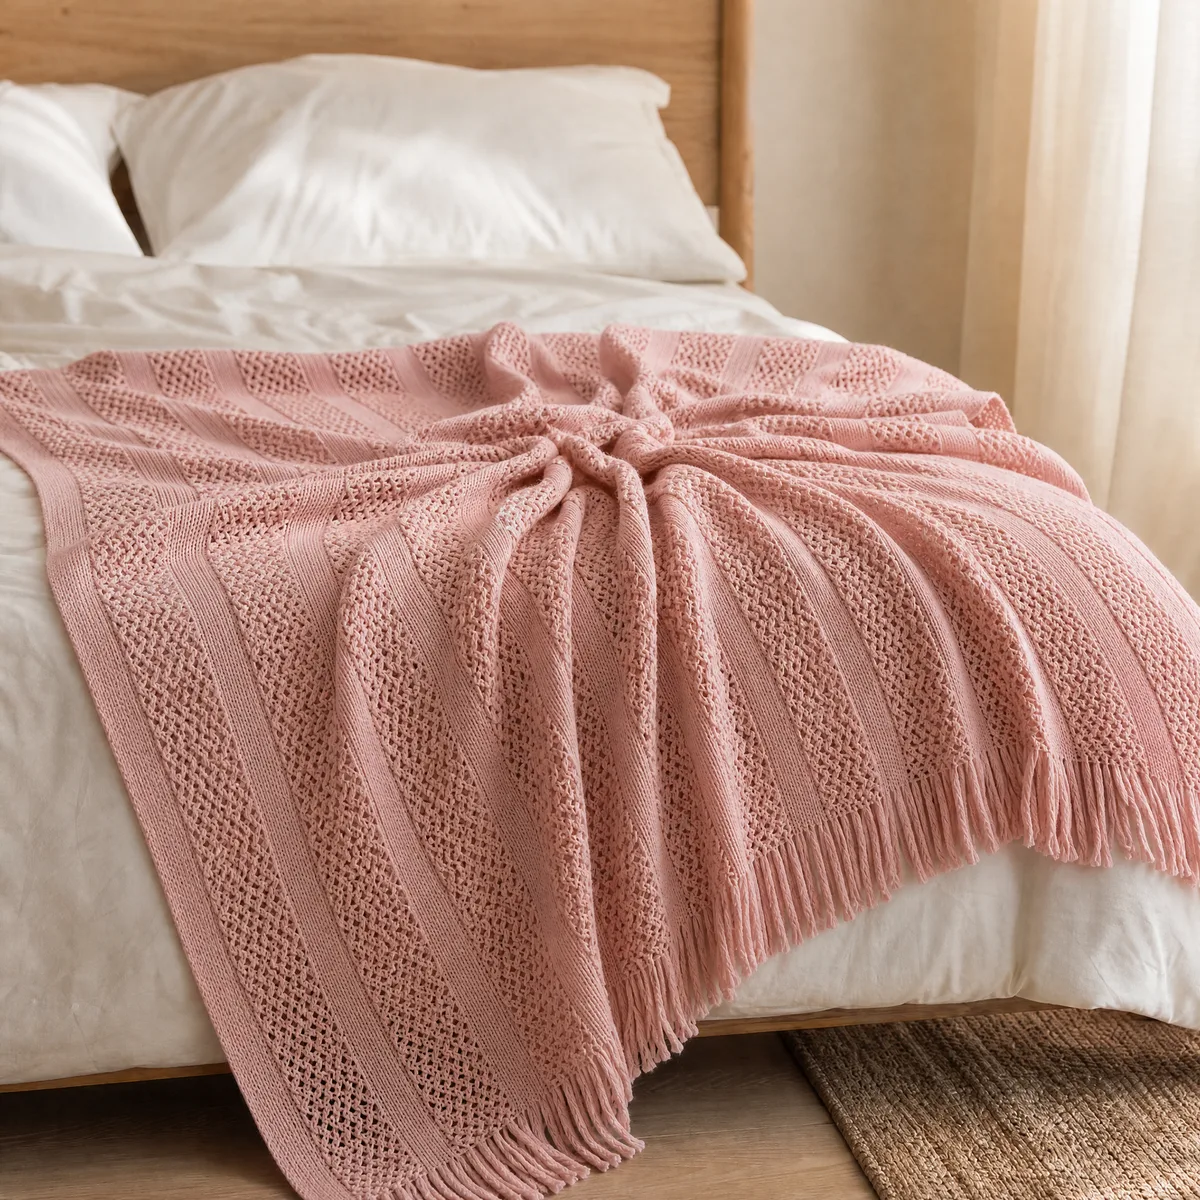
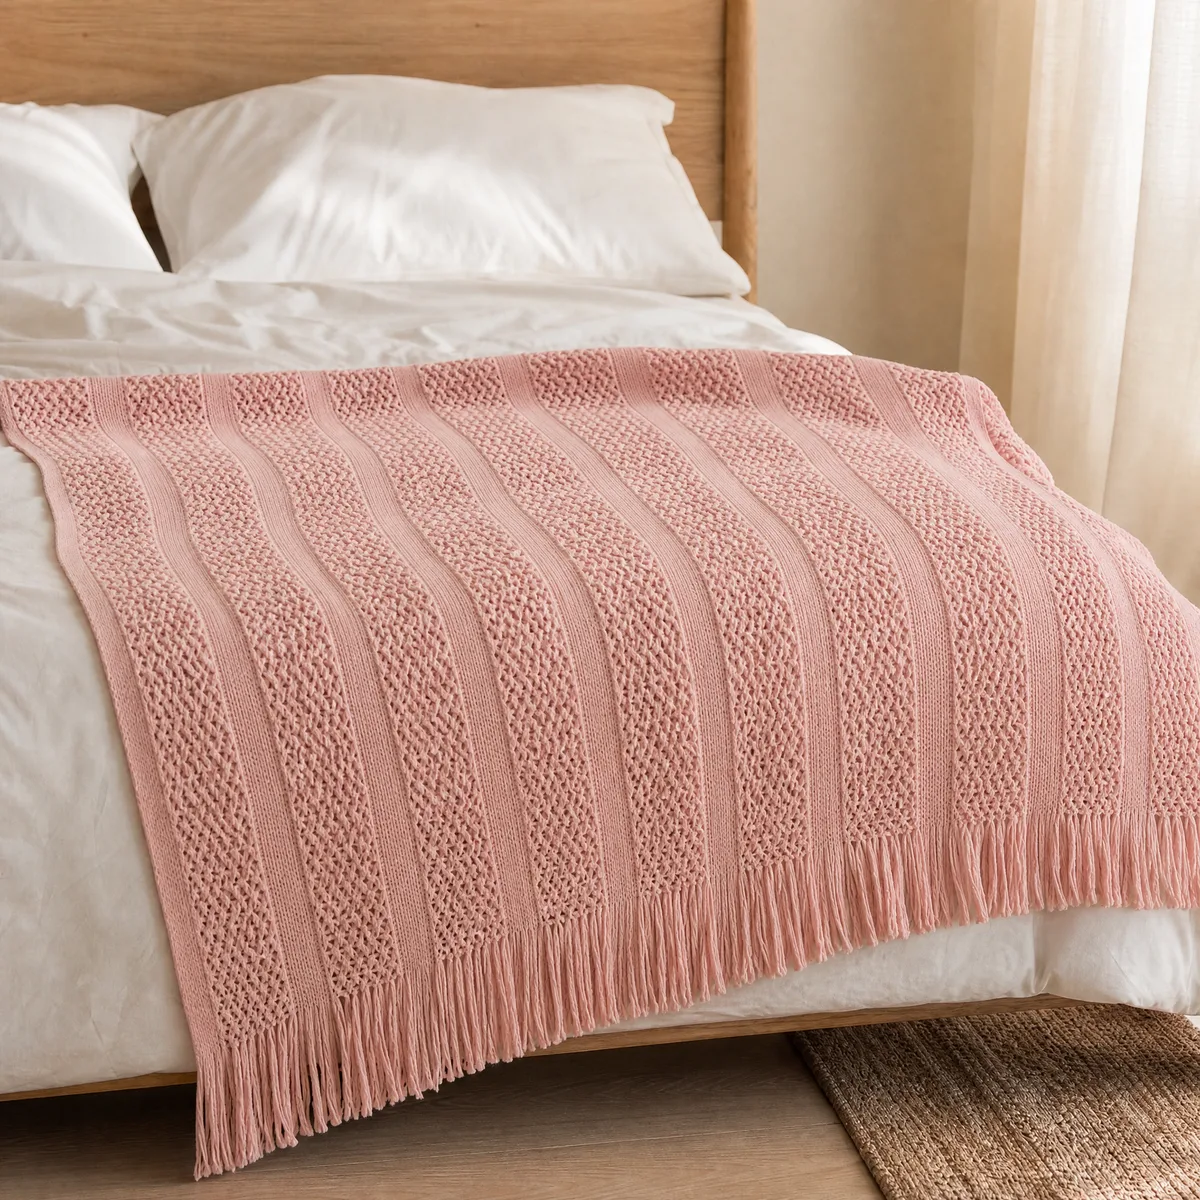
fix: 针织毯粉色主图重生成（平缓自然褶皱，替换聚拢失真版）

diff --git a/src/data/product-weights.ts b/src/data/product-weights.ts
@@ -1,6 +1,6 @@
 // Auto-generated by scripts/build-weights.js
 // DO NOT EDIT MANUALLY - 人工赋权改 src/data/weights-overrides.ts 后重跑本脚本
-// Generated at: 2026-10-18T21:01:23.414Z
+// Generated at: 2026-10-18T21:26:27.103Z
 
 export interface ProductWeight {
   /** 一级类目（同分破平用类目平均分） */
@@ -40,12 +40,12 @@ export const PRODUCT_WEIGHTS: Record<string, ProductWeight> = {
   "b0c3b13n8z": {"type":"Cushions","score":22.5,"perf":22.5,"boost":0},
   "b0c3b16l6r": {"type":"Cushions","score":22.5,"perf":22.5,"boost":0},
   "b0c3b265xj": {"type":"Cushions","score":22.5,"perf":22.5,"boost":0},
-  "b0c4b9t6jv": {"type":"Cushions","score":24,"perf":24,"boost":0},
-  "b0c4bbvs53": {"type":"Cushions","score":24,"perf":24,"boost":0},
-  "b0c4bc7q4s": {"type":"Cushions","score":24,"perf":24,"boost":0},
-  "b0c4bcd4dy": {"type":"Cushions","score":24,"perf":24,"boost":0},
-  "b0c4bd7q5x": {"type":"Cushions","score":24,"perf":24,"boost":0},
-  "b0c4bdllfk": {"type":"Cushions","score":24,"perf":24,"boost":0},
+  "b0c4b9t6jv": {"type":"Cushions","score":23.9,"perf":23.9,"boost":0},
+  "b0c4bbvs53": {"type":"Cushions","score":23.9,"perf":23.9,"boost":0},
+  "b0c4bc7q4s": {"type":"Cushions","score":23.9,"perf":23.9,"boost":0},
+  "b0c4bcd4dy": {"type":"Cushions","score":23.9,"perf":23.9,"boost":0},
+  "b0c4bd7q5x": {"type":"Cushions","score":23.9,"perf":23.9,"boost":0},
+  "b0c4bdllfk": {"type":"Cushions","score":23.9,"perf":23.9,"boost":0},
   "b0c6h5xzmz": {"type":"Cushions","score":22.5,"perf":22.5,"boost":0},
   "b0c8j237v3": {"type":"Pillows","score":22.7,"perf":22.7,"boost":0},
   "b0c8j292wf": {"type":"Pillows","score":22.7,"perf":22.7,"boost":0},
@@ -59,7 +59,7 @@ export const PRODUCT_WEIGHTS: Record<string, ProductWeight> = {
   "b0cc5y77dc": {"type":"Cushions","score":22.5,"perf":22.5,"boost":0},
   "b0cj8tjl56": {"type":"Cushions","score":19,"perf":19,"boost":0},
   "b0cjhslcz5": {"type":"Cushions","score":17.5,"perf":17.5,"boost":0},
-  "b0cjhx7xkl": {"type":"Cushions","score":24,"perf":24,"boost":0},
+  "b0cjhx7xkl": {"type":"Cushions","score":23.9,"perf":23.9,"boost":0},
   "b0cqbzm49v": {"type":"Pillows","score":23.2,"perf":23.2,"boost":0},
   "b0cqc5qjfj": {"type":"Pillows","score":23.2,"perf":23.2,"boost":0},
   "b0by8ly757": {"type":"Others","score":14.1,"perf":14.1,"boost":0},
@@ -73,7 +73,7 @@ export const PRODUCT_WEIGHTS: Record<string, ProductWeight> = {
   "b0f1y4j48t": {"type":"Cushions","score":19,"perf":19,"boost":0},
   "b0f1y91hpr": {"type":"Cushions","score":16.3,"perf":16.3,"boost":0},
   "b0f62xrb55": {"type":"Pillows","score":18.2,"perf":18.2,"boost":0},
-  "b0fnqrrv78": {"type":"Cushions","score":24,"perf":24,"boost":0},
+  "b0fnqrrv78": {"type":"Cushions","score":23.9,"perf":23.9,"boost":0},
   "b0g6m3f7cy": {"type":"Pillows","score":15,"perf":15,"boost":0},
   "b0g6mptvfd": {"type":"Pillows","score":53.2,"perf":23.2,"boost":30},
   "mk-pc-cord-caramel": {"type":"Pillows","score":17.8,"perf":17.8,"boost":0},
@@ -136,8 +136,8 @@ export const PRODUCT_WEIGHTS: Record<string, ProductWeight> = {
   "linen3-caramel-queen": {"type":"Bedding","score":9.7,"perf":9.7,"boost":0},
   "b0f62y3xt9": {"type":"Pillows","score":23.2,"perf":23.2,"boost":0},
   "b0f62zy8zn": {"type":"Pillows","score":23.2,"perf":23.2,"boost":0},
-  "b0gd81wt1b": {"type":"Cushions","score":22,"perf":22,"boost":0},
-  "b0gd84d8vc": {"type":"Cushions","score":24,"perf":24,"boost":0},
+  "b0gd81wt1b": {"type":"Cushions","score":21.9,"perf":21.9,"boost":0},
+  "b0gd84d8vc": {"type":"Cushions","score":23.9,"perf":23.9,"boost":0},
   "b0gjlpxb6f": {"type":"Cushions","score":23.3,"perf":23.3,"boost":0},
   "b0gjlrgvdj": {"type":"Cushions","score":21.9,"perf":21.9,"boost":0},
   "b0gjsttgy5": {"type":"Cushions","score":21.9,"perf":21.9,"boost":0},
@@ -288,12 +288,12 @@ export const PRODUCT_WEIGHTS: Record<string, ProductWeight> = {
   "linen3-sage-full": {"type":"Bedding","score":27.9,"perf":27.9,"boost":0},
   "linen3-sage-queen": {"type":"Bedding","score":57.2,"perf":27.2,"boost":30},
   "linen3-sage-king": {"type":"Bedding","score":27.8,"perf":27.8,"boost":0},
-  "linen3-charcoal-twin": {"type":"Bedding","score":28,"perf":28,"boost":0},
+  "linen3-charcoal-twin": {"type":"Bedding","score":27.9,"perf":27.9,"boost":0},
   "linen3-charcoal-full": {"type":"Bedding","score":27.9,"perf":27.9,"boost":0},
   "linen3-charcoal-queen": {"type":"Bedding","score":57,"perf":27,"boost":30},
   "linen3-charcoal-king": {"type":"Bedding","score":28.6,"perf":28.6,"boost":0},
   "linen3-dustyblue-twin": {"type":"Bedding","score":27.9,"perf":27.9,"boost":0},
-  "linen3-dustyblue-full": {"type":"Bedding","score":27.9,"perf":27.9,"boost":0},
+  "linen3-dustyblue-full": {"type":"Bedding","score":27.8,"perf":27.8,"boost":0},
   "linen3-dustyblue-queen": {"type":"Bedding","score":57.8,"perf":27.8,"boost":30},
   "linen3-dustyblue-king": {"type":"Bedding","score":27.2,"perf":27.2,"boost":0},
   "linen3-ivory-twin": {"type":"Bedding","score":27.2,"perf":27.2,"boost":0},
@@ -323,7 +323,7 @@ export const PRODUCT_WEIGHTS: Record<string, ProductWeight> = {
   "1688-743606980882-c61": {"type":"Dining","score":28.9,"perf":28.9,"boost":0},
   "1688-743606980882-c71": {"type":"Dining","score":27.4,"perf":27.4,"boost":0},
   "1688-743606980882-c80": {"type":"Dining","score":27.4,"perf":27.4,"boost":0},
-  "1688-743606980882-c89": {"type":"Dining","score":27.4,"perf":27.4,"boost":0},
+  "1688-743606980882-c89": {"type":"Dining","score":27.3,"perf":27.3,"boost":0},
   "1688-663341114084-c2": {"type":"Dining","score":28.7,"perf":28.7,"boost":0},
   "1688-663341114084-c3": {"type":"Dining","score":27.4,"perf":27.4,"boost":0},
   "1688-807393887857-c2": {"type":"Decor","score":28.9,"perf":28.9,"boost":0},
@@ -351,7 +351,7 @@ export const PRODUCT_WEIGHTS: Record<string, ProductWeight> = {
   "1688-1061371343572-c6": {"type":"Bedding","score":27.1,"perf":27.1,"boost":0},
   "1688-1061371343572-c7": {"type":"Bedding","score":27.1,"perf":27.1,"boost":0},
   "1688-1061371343572-c8": {"type":"Bedding","score":27.8,"perf":27.8,"boost":0},
-  "1688-1061371343572-c9": {"type":"Bedding","score":27.8,"perf":27.8,"boost":0},
+  "1688-1061371343572-c9": {"type":"Bedding","score":27.7,"perf":27.7,"boost":0},
   "1688-1061371343572-c10": {"type":"Bedding","score":26.9,"perf":26.9,"boost":0},
   "1688-1061371343572-c11": {"type":"Bedding","score":27.7,"perf":27.7,"boost":0},
   "1688-1061371343572-c12": {"type":"Bedding","score":27.8,"perf":27.8,"boost":0},
@@ -362,7 +362,7 @@ export const PRODUCT_WEIGHTS: Record<string, ProductWeight> = {
   "1688-1061371343572-c17": {"type":"Bedding","score":28.4,"perf":28.4,"boost":0},
   "1688-1061371343572-c18": {"type":"Bedding","score":28.6,"perf":28.6,"boost":0},
   "1688-1061371343572-c19": {"type":"Bedding","score":27.1,"perf":27.1,"boost":0},
-  "1688-1061371343572-c20": {"type":"Bedding","score":28.5,"perf":28.5,"boost":0},
+  "1688-1061371343572-c20": {"type":"Bedding","score":28.4,"perf":28.4,"boost":0},
   "1688-1061371343572-c21": {"type":"Bedding","score":27.1,"perf":27.1,"boost":0},
   "1688-1061371343572-c22": {"type":"Bedding","score":27,"perf":27,"boost":0},
   "1688-1048207560416-c2": {"type":"Bedding","score":27.1,"perf":27.1,"boost":0},

diff --git a/scripts/seeany-blanket-2.js b/scripts/seeany-blanket-2.js
@@ -54,7 +54,7 @@ const COLORS = {
   pink: {
     cn: '粉色', en: 'soft dusty pink',
     src: 'O1CN011qkuR81t5M2Z3Prz5_!!2201660865850-0-cib.jpg',
-    vary: '褶皱变化：毯子整体更蓬松，床面中央隆起更高、褶皱呈放射状散开，毯子一角微微卷起。',
+    vary: '褶皱变化：毯面整体平缓舒展，只有少量大而柔和的自然垂坠褶；毯子右角沿床侧自然垂落一段，流苏随之下垂。绝不许出现中心聚拢、打结式或放射状的褶皱。',
   },
 };
 

diff --git a/src/data/shopify-map.ts b/src/data/shopify-map.ts
@@ -1,6 +1,6 @@
 // Auto-generated by scripts/build-shopify-map.js
 // DO NOT EDIT MANUALLY - Run 'node scripts/build-shopify-map.js' to update
-// Generated at: 2026-10-18T21:01:22.719Z
+// Generated at: 2026-10-18T21:26:26.408Z
 
 export interface ShopifyProductEntry {
   variantId: string;
